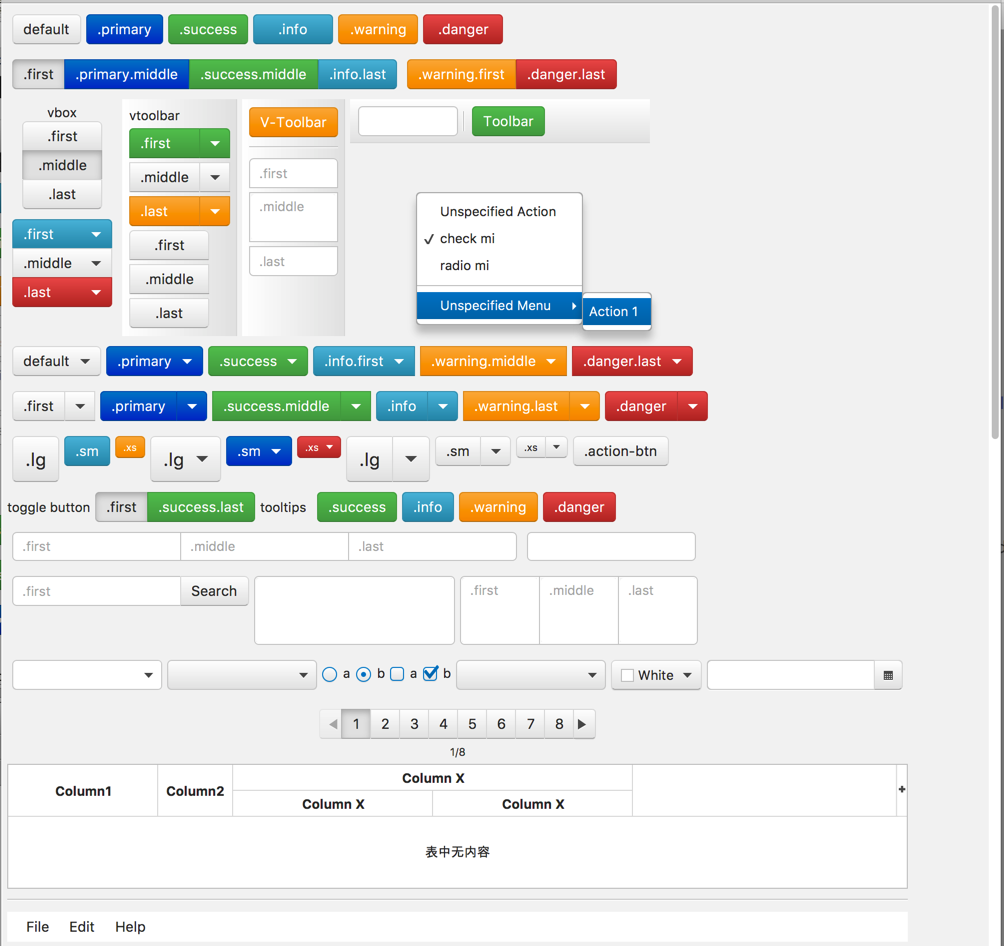
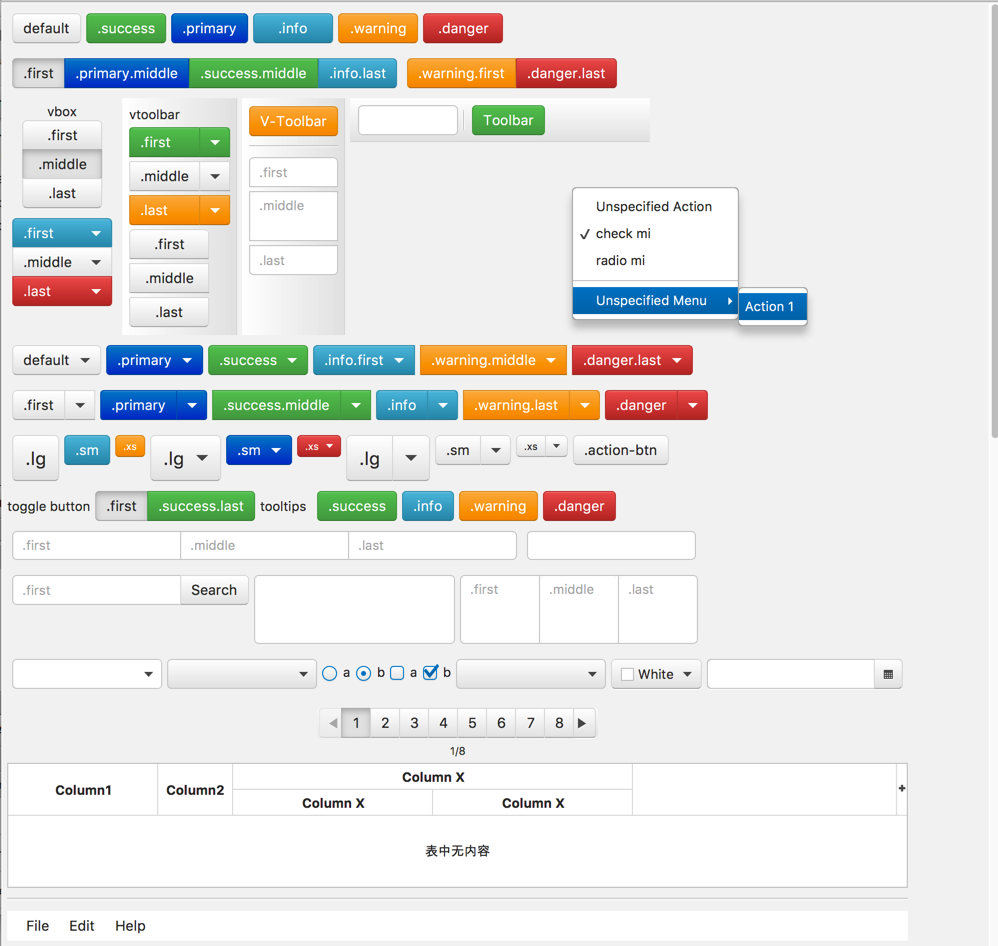
i add a highlight line on the top of buttons

diff --git a/bootstrap2.css b/bootstrap2.css
@@ -136,8 +136,11 @@ VBox > .split-menu-button.last > .arrow-button {
 }
 
 /*button styles*/
-
-/*default button settings*/
+/*highlight line on the top*/
+.button,.split-menu-button,.toggle-button,.menu-button,
+.split-menu-button > .label, .split-menu-button > .arrow-button {
+	-fx-background-insets: 0,2 0 0 0;
+}
 
 /*bgcolor setting*/
 .color-picker,.date-picker > .arrow-button,
@@ -145,7 +148,7 @@ VBox > .split-menu-button.last > .arrow-button {
 .button,.split-menu-button,.toggle-button,.menu-button,
 .combo-box,.choice-box,
 .font-menu-button, .split-menu-button > .label, .split-menu-button > .arrow-button {
-	-fx-background-color: linear-gradient(to bottom,#fff,#e6e6e6);
+	-fx-background-color: white,linear-gradient(to bottom,#fff,#e6e6e6);
 }
 
 .color-picker,.date-picker > .arrow-button,
@@ -197,7 +200,7 @@ VBox > .split-menu-button.last > .arrow-button {
 /*primary*/
 .button.primary,.split-menu-button.primary,.toggle-button.primary,.menu-button.primary,
 .split-menu-button.primary > .label, .split-menu-button.primary > .arrow-button {
-	-fx-background-color: linear-gradient(to bottom,#08c,#04c);
+	-fx-background-color: #339fd6,linear-gradient(to bottom,#08c,#04c);
 }
 
 .button.primary,.menu-button.primary,.toggle-button.primary,
@@ -209,7 +212,7 @@ VBox > .split-menu-button.last > .arrow-button {
 .button.primary:hover,.menu-button.primary:hover,.toggle-button.primary:hover,
 .split-menu-button.primary > .label:hover, .split-menu-button.primary > .arrow-button:hover {
 	-fx-border-color: #005bb8 #005bb8 #003399 #005bb8;
-	-fx-background-color: linear-gradient(to bottom, #0060cc, #0044cc);
+	-fx-background-color: #3381d6,linear-gradient(to bottom, #0060cc, #0044cc);
 }
 /*pressed selected*/
 .button.primary:pressed, .button.primary:selected,
@@ -225,7 +228,7 @@ VBox > .split-menu-button.last > .arrow-button {
 
 .button.success,.split-menu-button.success,.toggle-button.success,.menu-button.success,
 .split-menu-button.success > .label, .split-menu-button.success > .arrow-button {
-	-fx-background-color: linear-gradient(to bottom,#62c462,#51a351);
+	-fx-background-color: #81cf81,linear-gradient(to bottom,#62c462,#51a351);
 }
 
 .button.success,.menu-button.success,.toggle-button.success,
@@ -237,7 +240,7 @@ VBox > .split-menu-button.last > .arrow-button {
 .button.success:hover,.menu-button.success:hover,.toggle-button.success:hover,
 .split-menu-button.success > .label:hover, .split-menu-button.success > .arrow-button:hover {
 	-fx-border-color: #50a150 #50a150 #3d7a3d #50a150;
-	-fx-background-color: linear-gradient(to bottom, #5ab25a, #3d7a3d);
+	-fx-background-color: #79c279,linear-gradient(to bottom, #5ab25a, #3d7a3d);
 }
 /*pressed selected*/
 .button.success:pressed, .button.success:selected,
@@ -253,7 +256,7 @@ VBox > .split-menu-button.last > .arrow-button {
 
 .button.info,.split-menu-button.info,.toggle-button.info,.menu-button.info,
 .split-menu-button.info > .label, .split-menu-button.info > .arrow-button {
-	-fx-background-color: linear-gradient(to bottom,#5bc0de,#2f96b4);
+	-fx-background-color: #7ccde5,linear-gradient(to bottom,#5bc0de,#2f96b4);
 }
 
 .button.info,.menu-button.info,.toggle-button.info,
@@ -265,7 +268,7 @@ VBox > .split-menu-button.last > .arrow-button {
 .button.info:hover,.menu-button.info:hover,.toggle-button.info:hover,
 .split-menu-button.info > .label:hover, .split-menu-button.info > .arrow-button:hover {
 	-fx-border-color: #3d99b4 #3d99b4 #237187 #3d99b4;
-	-fx-background-color: linear-gradient(to bottom, #41a8c6, #2f96b4);
+	-fx-background-color: #69bad2,linear-gradient(to bottom, #41a8c6, #2f96b4);
 }
 /*pressed selected*/
 .button.info:pressed, .button.info:selected,
@@ -281,7 +284,7 @@ VBox > .split-menu-button.last > .arrow-button {
 
 .button.warning,.split-menu-button.warning,.toggle-button.warning,.menu-button.warning,
 .split-menu-button.warning > .label, .split-menu-button.warning > .arrow-button {
-	-fx-background-color: linear-gradient(to bottom,#fbb450,#f89406);
+	-fx-background-color: #fcc272,linear-gradient(to bottom,#fbb450,#f89406);
 }
 
 .button.warning,.menu-button.warning,.toggle-button.warning,
@@ -293,7 +296,7 @@ VBox > .split-menu-button.last > .arrow-button {
 .button.warning:hover,.menu-button.warning:hover,.toggle-button.warning:hover,
 .split-menu-button.warning > .label:hover, .split-menu-button.warning > .arrow-button:hover {
 	-fx-border-color: #e09325 #e09325 #ba6f04 #e09325;
-	-fx-background-color: linear-gradient(to bottom, #f9a123, #f89406);
+	-fx-background-color: #fab552,linear-gradient(to bottom, #f9a123, #f89406);
 }
 /*pressed selected*/
 .button.warning:pressed, .button.warning:selected,
@@ -309,7 +312,7 @@ VBox > .split-menu-button.last > .arrow-button {
 
 .button.danger,.split-menu-button.danger,.toggle-button.danger,.menu-button.danger,
 .split-menu-button.danger > .label, .split-menu-button.danger > .arrow-button {
-	-fx-background-color: linear-gradient(to bottom,#ee5f5b,#bd362f);
+	-fx-background-color: #f17e7b,linear-gradient(to bottom,#ee5f5b,#bd362f);
 }
 
 .button.danger,.menu-button.danger,.toggle-button.danger,
@@ -321,7 +324,7 @@ VBox > .split-menu-button.last > .arrow-button {
 .button.danger:hover,.menu-button.danger:hover,.toggle-button.danger:hover,
 .split-menu-button.danger > .label:hover, .split-menu-button.danger > .arrow-button:hover {
 	-fx-border-color: #bf423d #bf423d #8e2823 #bf423d;
-	-fx-background-color: linear-gradient(to bottom, #d14741, #bd362f);
+	-fx-background-color: #dc6d69,linear-gradient(to bottom, #d14741, #bd362f);
 }
 /*pressed selected*/
 .button.danger:pressed, .button.danger:selected,
